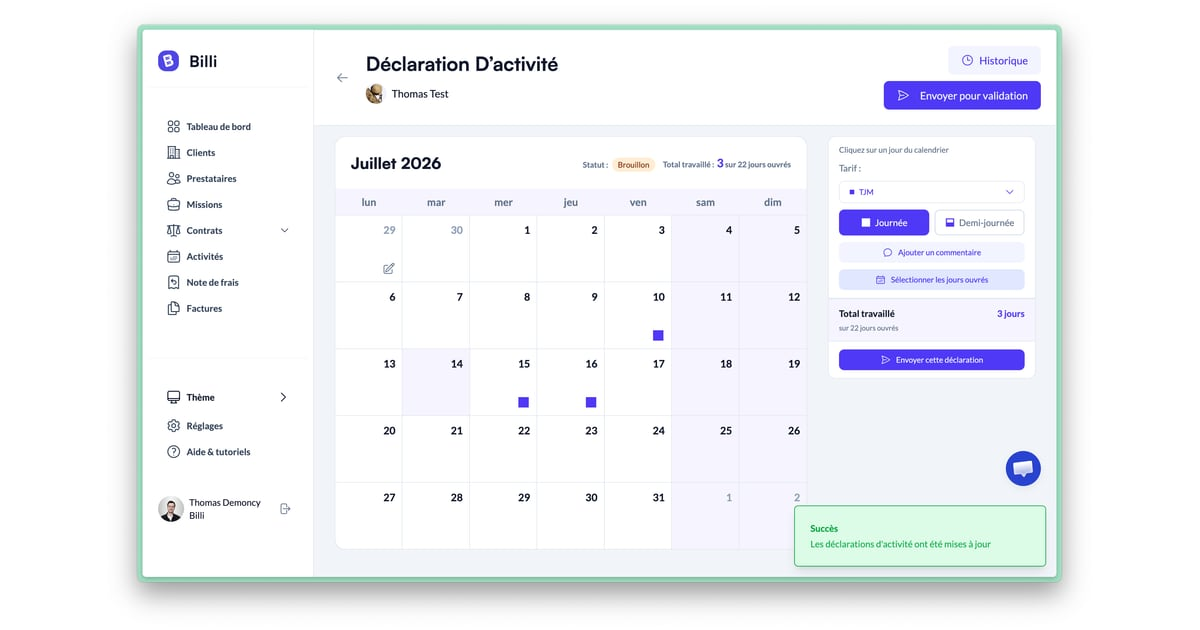
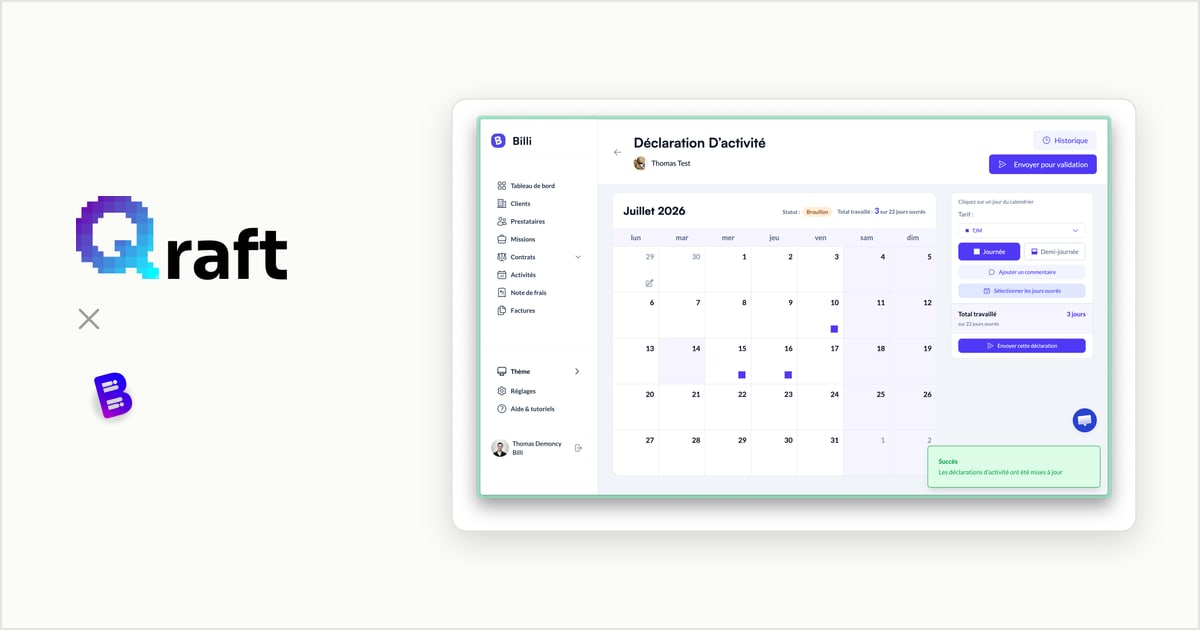
feat(seo): les aperçus des réalisations disent que c'est Qraft
Une capture du produit seule faisait croire à la page du client. L'image
devient une carte du site : le logo Qraft, le logo du client et la capture.
Episto et Hellio, sans capture, ont la carte avec les deux logos.

- scripts/gen-client-cards.mjs les génère (yarn gen:client-cards)
- hors articles, og:title reprend le titre du document, qui finit par
  « | Qraft » ; les articles gardent leur titre seul
- les réalisations passent en og:type website

diff --git a/lib/client-screenshots.ts b/lib/client-screenshots.ts
@@ -22,8 +22,8 @@ export const clientScreenshots: Record<string, readonly StaticImageData[]> = {
 };
 
 /**
- * The image of a case study's link preview: its screenshot, at
- * `OG_IMAGE_SIZE`. A client without one gets the site's image.
+ * The image of a case study's link preview: a card with the Qraft lockup,
+ * the client's logo and its screenshot, made by `yarn gen:client-cards`.
  */
 export const clientSocialImages: Record<string, string> = {
   billi: "/images/social/billi.jpg",
@@ -33,4 +33,6 @@ export const clientSocialImages: Record<string, string> = {
   bruno: "/images/social/bruno.jpg",
   chloe: "/images/social/chloe.jpg",
   sante: "/images/social/sante.jpg",
+  episto: "/images/social/episto.jpg",
+  hellio: "/images/social/hellio.jpg",
 };

diff --git a/lib/i18n/metadata.ts b/lib/i18n/metadata.ts
@@ -88,7 +88,10 @@ export function pageMetadata(
       type,
       siteName: SITE_NAME,
       locale: OG_LOCALE[locale],
-      title,
+      // An article's title stands alone. Any other page takes the document's,
+      // which ends with the site's name: a case study named after its client
+      // would otherwise read as the client's own page.
+      ...(type === "article" ? { title } : {}),
       description,
       url: localePath(locale, own),
       images: [{ url: image, ...OG_IMAGE_SIZE }],

diff --git a/app/[lang]/realisations/[slug]/page.tsx b/app/[lang]/realisations/[slug]/page.tsx
@@ -38,7 +38,6 @@ export async function generateMetadata({
   const title = `${client.name} — ${client.sector}`;
 
   return pageMetadata(lang, `/realisations/${slug}`, title, client.lede, {
-    type: "article",
     image: clientSocialImages[slug],
   });
 }
